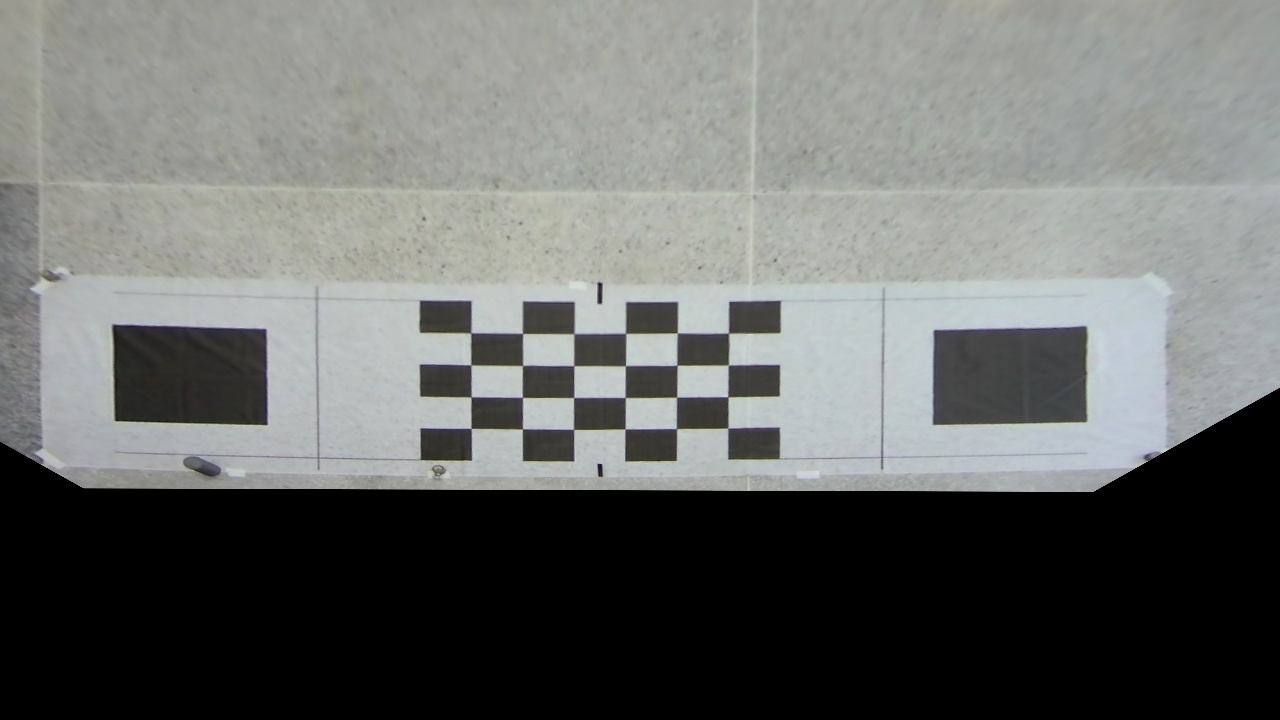
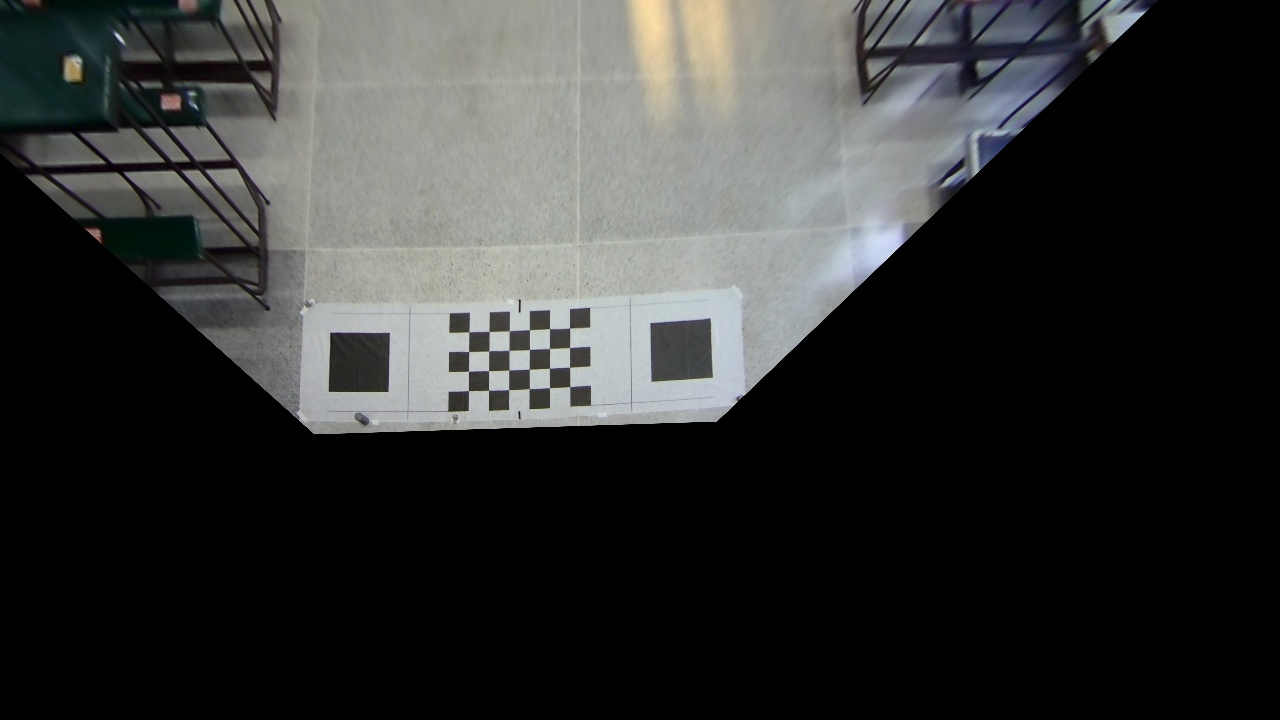
Surround-View-App Ver 0.5.0

diff --git a/Program/Step2a_Projective_Transformation.py b/Program/Step2a_Projective_Transformation.py
@@ -23,7 +23,10 @@ def load_calibration_parameters(yaml_filename):
 if __name__ == "__main__":
 
     # ตั้งค่าโฟลเดอร์และพารามิเตอร์
-    test_folder = 'Rear6'
+
+    # test_folder = 'front6'
+    test_folder = 'Left6'    
+    # test_folder = 'Rear6'
 
     # โหลด intrinsic parameters จากไฟล์ YAML
     yaml_filename = 'yaml/calibration_data.yaml'
@@ -38,6 +41,8 @@ if __name__ == "__main__":
     cv2.destroyAllWindows()
 
     undistorted = cv2.undistort(img_test, camera_matrix, dist_coeffs)
+    # if 'Left' in test_folder:
+    #     undistorted = cv2.rotate(undistorted, cv2.ROTATE_90_COUNTERCLOCKWISE)
 
     # ให้ผู้ใช้คลิกเลือก 4 จุดในภาพ
     clicked_points = []
@@ -53,11 +58,34 @@ if __name__ == "__main__":
     print("Selected source points:", src_points)
 
     # กำหนด destination points สำหรับการแปลง perspective
+
+    # if 'front' in test_folder:
+    #     dst_points = np.float32([
+    #         # [450, 310],
+    #         # [570, 310],
+    #         # [450, 410],
+    #         # [570, 410]
+    #         [300, 300],
+    #         [520, 300],
+    #         [300, 420],
+    #         [520, 420]            
+    #     ])
+    # elif  'Left' in test_folder:
+    #         dst_points = np.float32([
+    #             # [310, 524],
+    #             # [410, 524],
+    #             [300, 300],
+    #             [410, 420],                
+    #             [310, 624],
+    #             [410, 624]
+    #     ])
+    # else:
+        # Add other test_folder cases here if needed
     dst_points = np.float32([
-        [420, 300],
-        [780, 300],
-        [420, 460],
-        [780, 460]
+        [420, 300],  # จุดที่ 1
+        [780, 300],  # จุดที่ 2
+        [420, 460],  # จุดที่  3       
+        [780, 460]  # จุดที่ 4  
     ])
 
     # คำนวณ perspective transform matrix และทำการ warp image

diff --git a/Program/param_settings.py b/Program/param_settings.py
@@ -1,0 +1,63 @@
+import os
+import cv2
+
+
+camera_names = ["front", "back", "left", "right"]
+
+# --------------------------------------------------------------------
+# (shift_width, shift_height): how far away the birdview looks outside
+# of the calibration pattern in horizontal and vertical directions
+shift_w = 300
+shift_h = 300
+
+# size of the gap between the calibration pattern and the car
+# in horizontal and vertical directions
+inn_shift_w = 20
+inn_shift_h = 50
+
+# total width/height of the stitched image
+total_w = 140 + 2 * shift_w
+total_h = 100 + 2 * shift_h
+
+# four corners of the rectangular region occupied by the car
+# top-left (x_left, y_top), bottom-right (x_right, y_bottom)
+xl = shift_w + 110 + inn_shift_w
+xr = total_w - xl
+yt = shift_h + 250 + inn_shift_h
+yb = total_h - yt
+# --------------------------------------------------------------------
+
+project_shapes = {
+    "front": (total_w, yt),
+    "back":  (total_w, yt),
+    "left":  (total_h, xl),
+    "right": (total_h, xl)
+}
+
+# pixel locations of the four points to be chosen.
+# you must click these pixels in the same order when running
+# the get_projection_map.py script
+project_keypoints = {
+    "front": [(shift_w + 120, shift_h),
+              (shift_w + 480, shift_h),
+              (shift_w + 120, shift_h + 160),
+              (shift_w + 480, shift_h + 160)],
+
+    "back":  [(shift_w + 120, shift_h),
+              (shift_w + 480, shift_h),
+              (shift_w + 120, shift_h + 160),
+              (shift_w + 480, shift_h + 160)],
+
+    "left":  [(shift_h + 280, shift_w),
+              (shift_h + 840, shift_w),
+              (shift_h + 280, shift_w + 160),
+              (shift_h + 840, shift_w + 160)],
+
+    "right": [(shift_h + 160, shift_w),
+              (shift_h + 720, shift_w),
+              (shift_h + 160, shift_w + 160),
+              (shift_h + 720, shift_w + 160)]
+}
+
+car_image = cv2.imread(os.path.join(os.getcwd(), "images", "car.png"))
+car_image = cv2.resize(car_image, (xr - xl, yb - yt))
